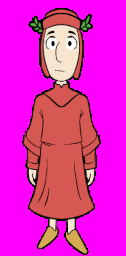
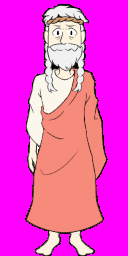
Catone and Manfredi textures + Catone's speech

diff --git a/src/vulc/dantegame/level/entity/mob/Player.java b/src/vulc/dantegame/level/entity/mob/Player.java
@@ -103,7 +103,7 @@ public class Player extends Mob {
 		if(Game.overlay == null && !isTalking) {
 			// xm and ym requested by input
 			int xmIn = 0, ymIn = 0;
-			int speed = 6 * 5; // DEBUG
+			int speed = 6; // DEBUG
 
 			if(KeyBindings.W.down() || KeyBindings.UP.down()) ymIn -= 1;
 			if(KeyBindings.A.down() || KeyBindings.LEFT.down()) xmIn -= 1;
@@ -201,7 +201,7 @@ public class Player extends Mob {
 					try {
 						Game.level = Level.loadLevel(Game.levelNumber);
 						Game.player = Game.level.player;
-					} catch(RuntimeException ex) {
+					} catch(Exception ex) {
 						Game.menu = new GameOverMenu();
 						Game.level = null;
 						Game.player = null;
@@ -218,7 +218,7 @@ public class Player extends Mob {
 
 	// DEBUG
 	public boolean ignoreSolidTiles() {
-		return true;
+		return false;
 	}
 
 }

diff --git a/src/vulc/dantegame/gfx/menu/InfoMenu.java b/src/vulc/dantegame/gfx/menu/InfoMenu.java
@@ -19,7 +19,6 @@ public class InfoMenu extends Menu {
 	}
 
 	public void render(Screen screen) {
-
 		String text = "Videogioco fatto per il Dantedi' 2021\n"
 		              + "dalla classe 4BA Liceo Vittorini Gela\n"
 		              + "\n"
